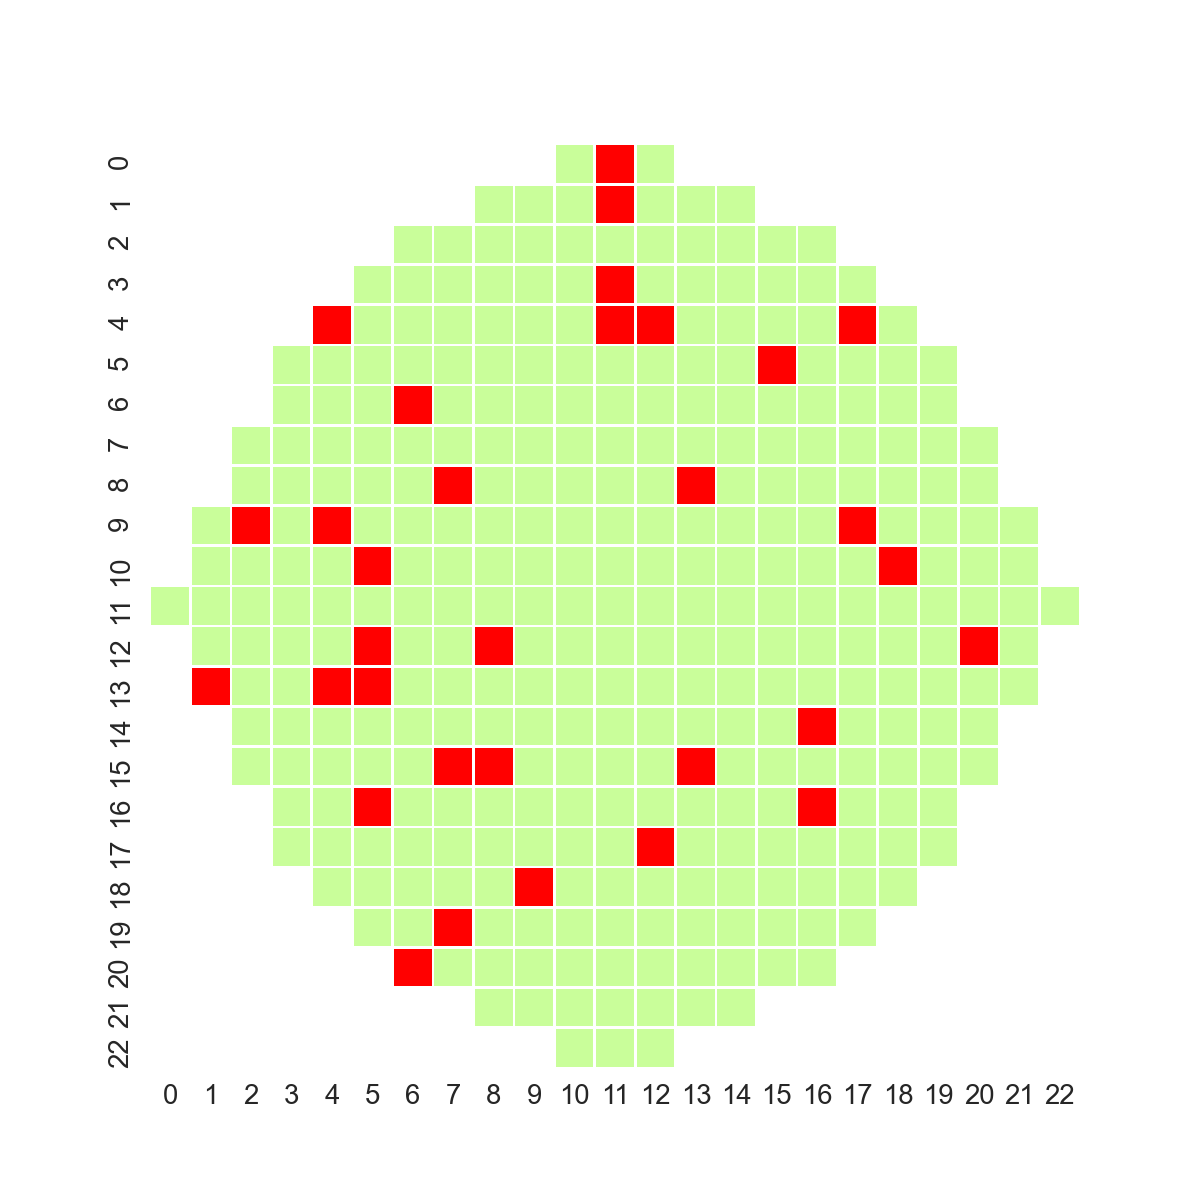
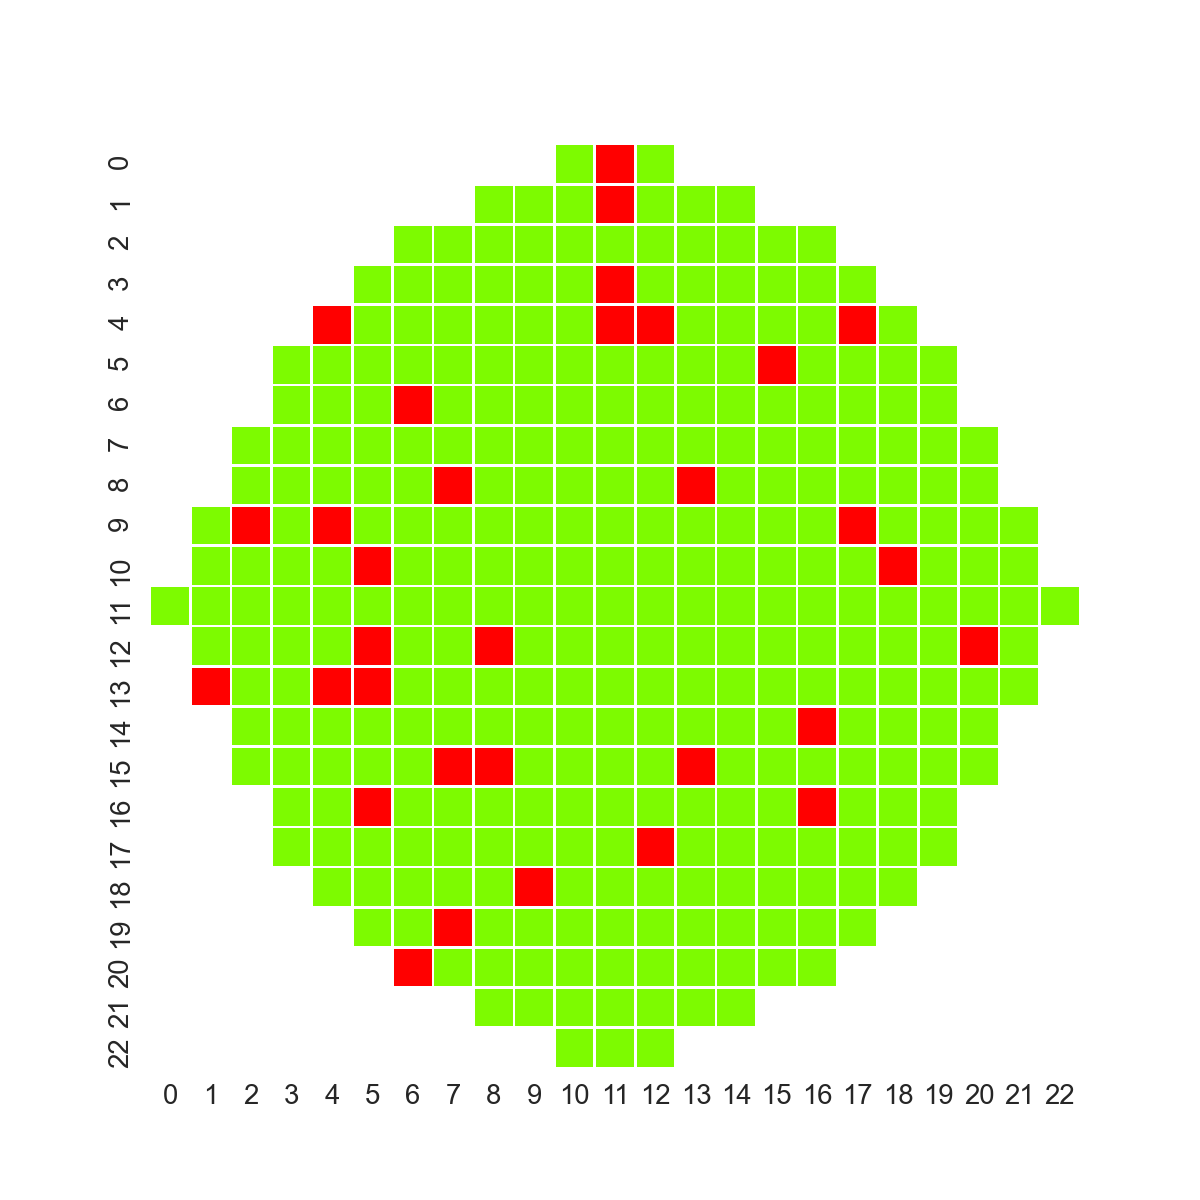
good die 使用草綠色

diff --git a/CreateMap.py b/CreateMap.py
@@ -7,8 +7,6 @@ import seaborn as sns
 import matplotlib.colors as mcolors
 import pandas as pd
 
-import random
-
 df = pd.read_csv(r"Openshort\1.csv", header=None)
 df2 = pd.read_csv(r"Openshort\多類型.csv", header=None)
 
@@ -18,7 +16,7 @@ def draw_oneclass(data):
     sns.set(font_scale=1.5)
     fig, ax = plt.subplots(figsize=(10,10))
     # cmap = sns.color_palette("Pastel2", 3)
-    cmap = mcolors.LinearSegmentedColormap.from_list("n",['white', '#c9ff9b', 'red'])
+    cmap = mcolors.LinearSegmentedColormap.from_list("n",['white', '#7cfc00', 'red'])
     sns.heatmap(data,
                 center=1,
                 cmap=cmap,
@@ -37,7 +35,7 @@ def draw_mutipleclasses(data, filename):
     sns.set(font_scale=1.5)
     fig, ax = plt.subplots(figsize=(10,10))
     # cmap = sns.color_palette("Pastel2", 3)
-    cmap = mcolors.ListedColormap(['white', '#c9ff9b', 'red', '#4872db', '#6e19c2'])
+    cmap = mcolors.ListedColormap(['white', '#7cfc00', 'red', '#4872db', '#6e19c2'])
     sns.heatmap(data,
                 center=2,
                 # cmap= 'RdBu',
